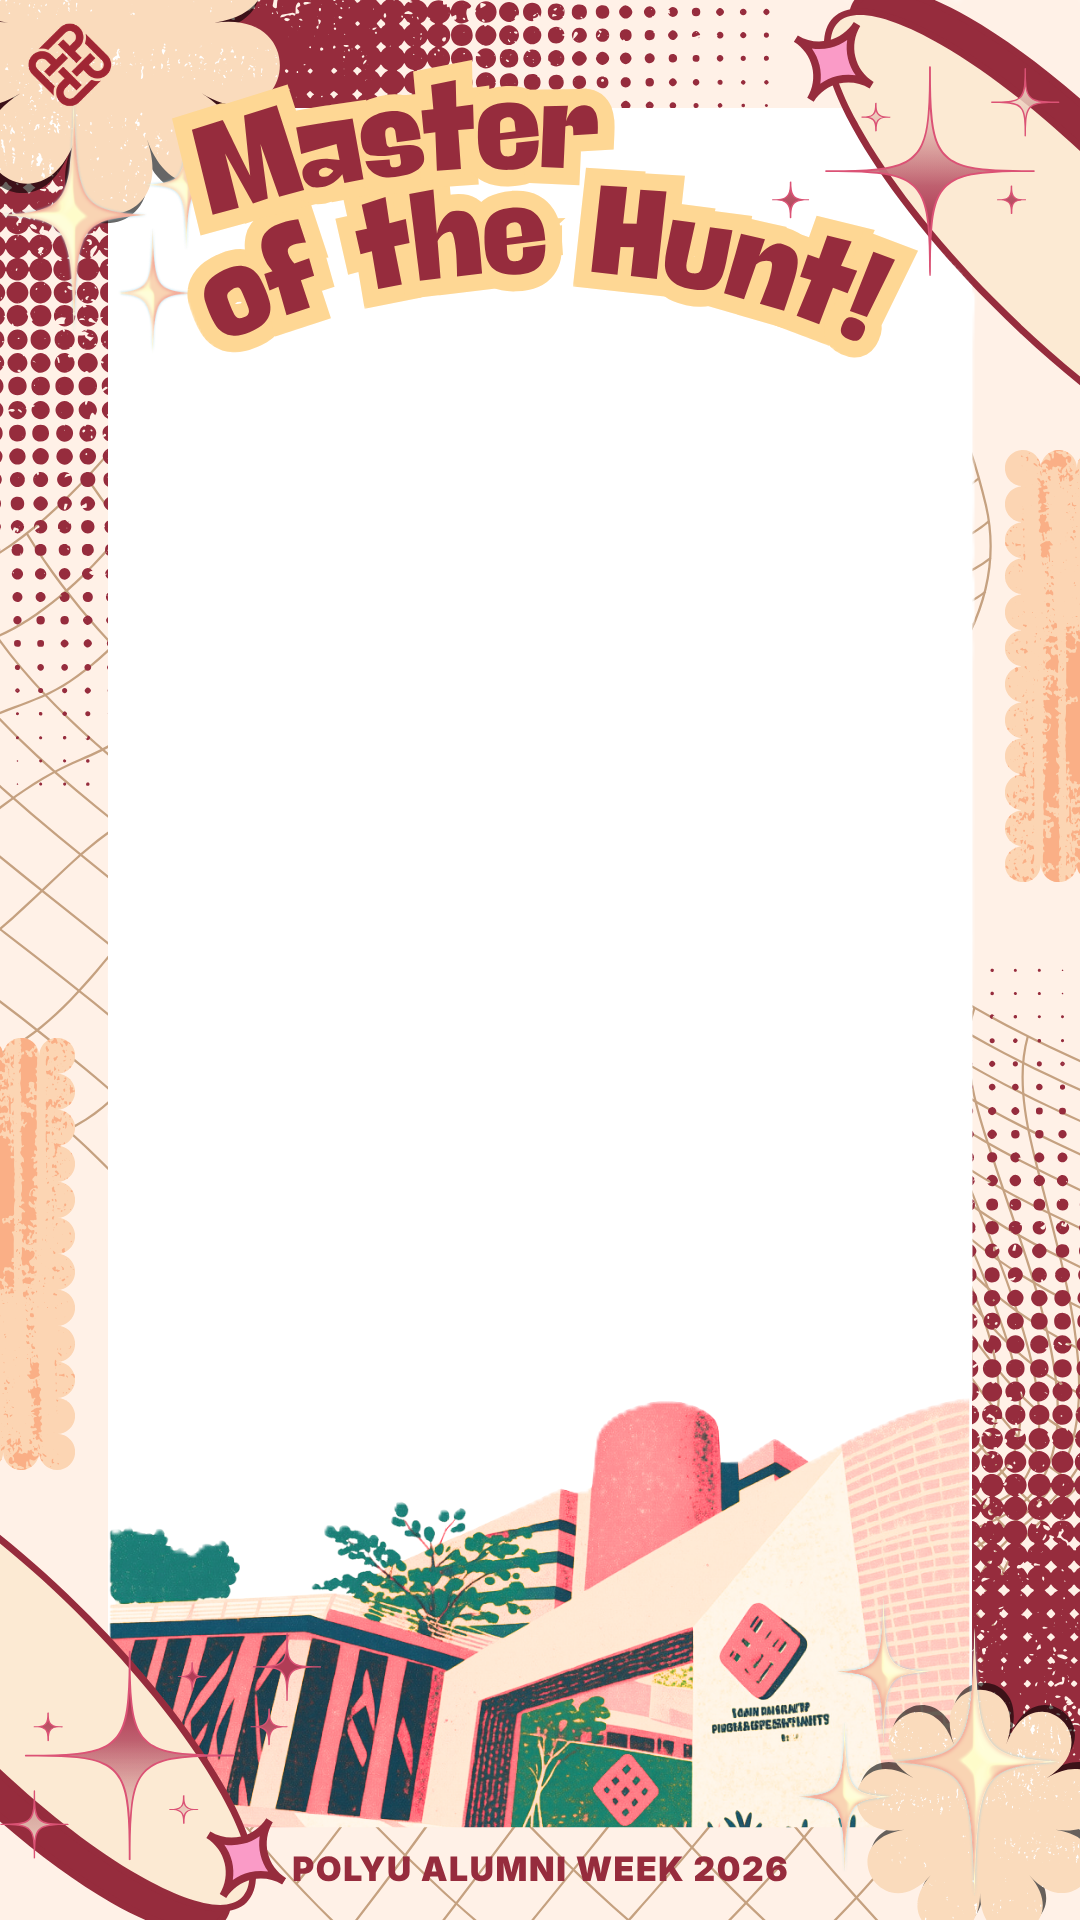
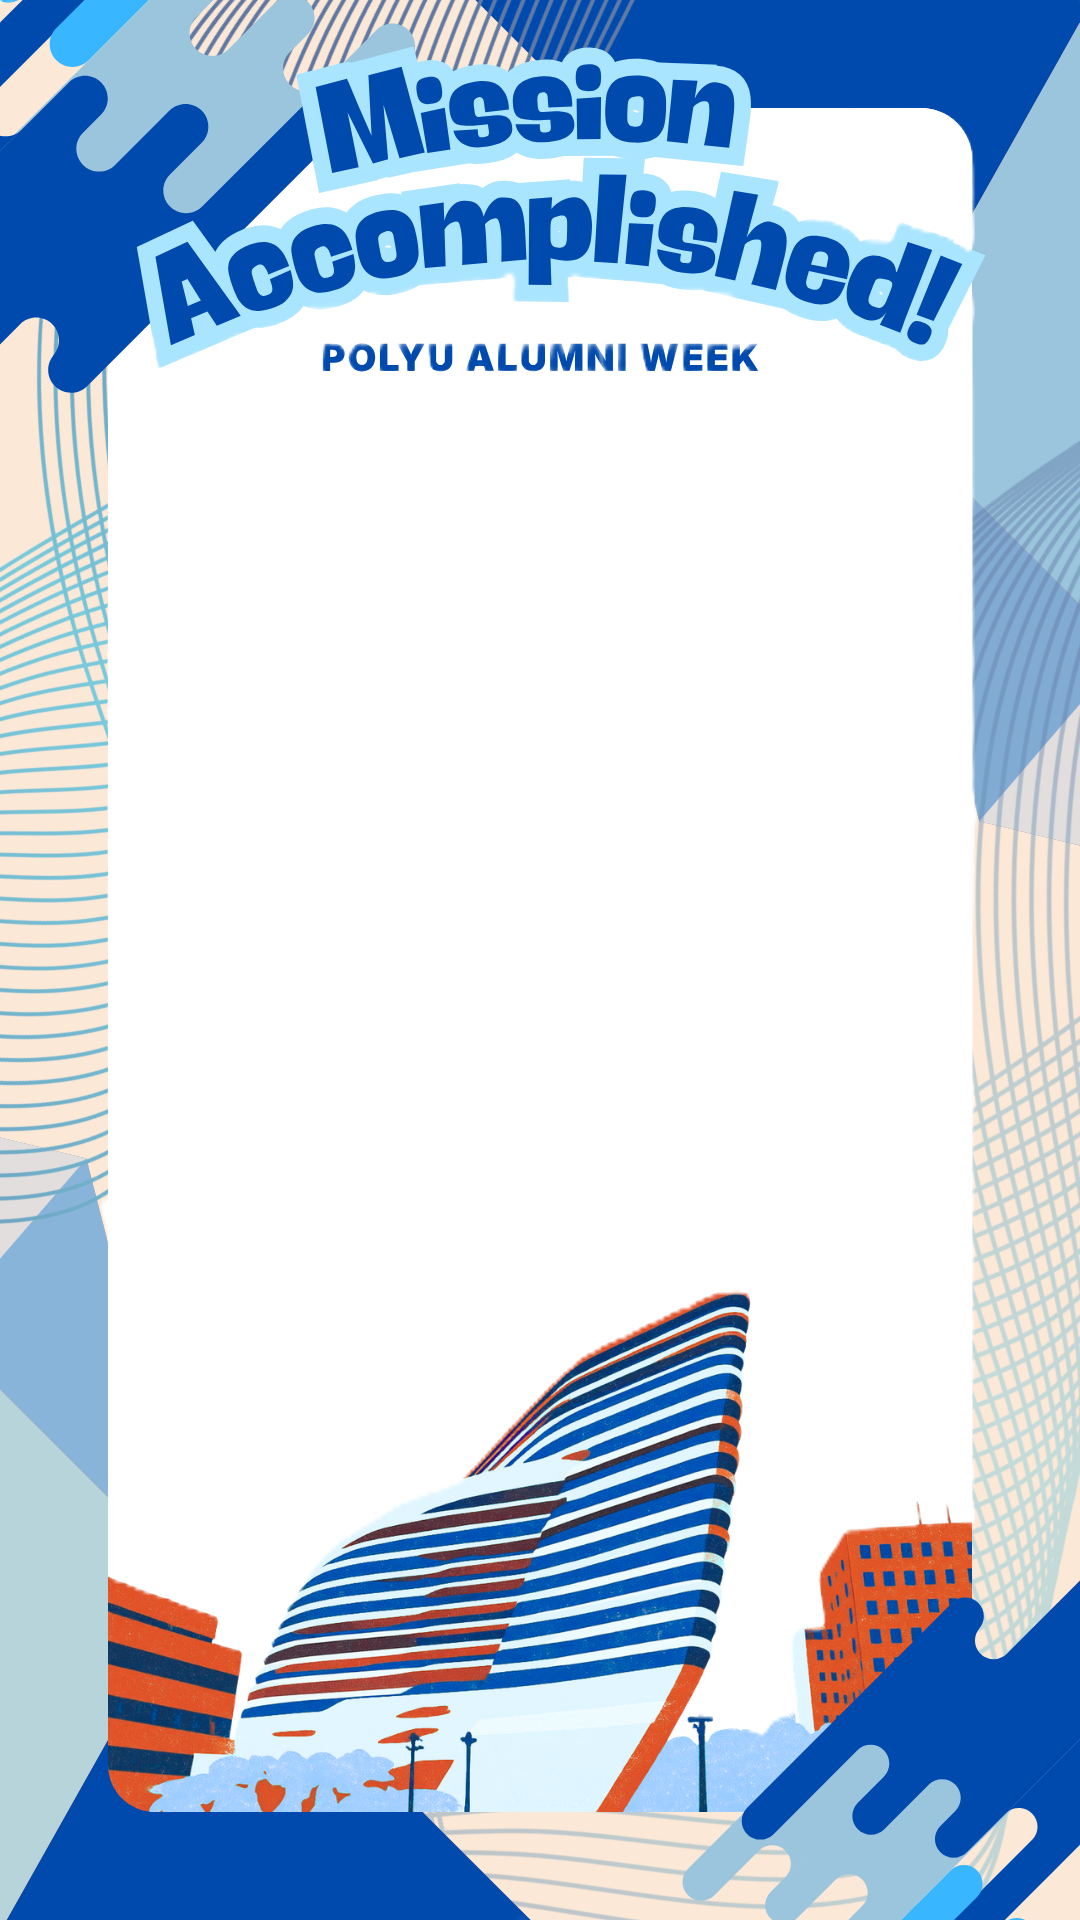
updated

diff --git a/public/index.html b/public/index.html
@@ -962,10 +962,10 @@
                                             {user.version === 'overseas' ? t.overseasOnly : t.localOnly}
                                         </div>
                                         
-                                        <input name="recipient" type="text" className="w-full p-4 border-2 border-gray-200 rounded-xl bg-white focus:border-purple-500 outline-none transition" required placeholder={t.recipient} />
-                                        <textarea name="address" className="w-full p-4 border-2 border-gray-200 rounded-xl bg-white focus:border-purple-500 outline-none transition resize-none h-24" required placeholder={t.deliveryAddress}></textarea>
-                                        <input name="postalCode" type="text" className="w-full p-4 border-2 border-gray-200 rounded-xl bg-white focus:border-purple-500 outline-none transition" required placeholder={t.postalCode} />
-                                        <input name="mobile" type="tel" className="w-full p-4 border-2 border-gray-200 rounded-xl bg-white focus:border-purple-500 outline-none transition" required placeholder={t.mobile} />
+                                        <input name="recipient" type="text" className="w-full p-4 border-2 border-gray-200 rounded-xl bg-white focus:border-purple-500 outline-none transition" required placeholder={t.recipient} defaultValue={user.giftDetails?.recipient || ''} />
+                                        <textarea name="address" className="w-full p-4 border-2 border-gray-200 rounded-xl bg-white focus:border-purple-500 outline-none transition resize-none h-24" required placeholder={t.deliveryAddress} defaultValue={user.giftDetails?.address || user.address || ''}></textarea>
+                                        <input name="postalCode" type="text" className="w-full p-4 border-2 border-gray-200 rounded-xl bg-white focus:border-purple-500 outline-none transition" required placeholder={t.postalCode} defaultValue={user.giftDetails?.postalCode || ''} />
+                                        <input name="mobile" type="tel" className="w-full p-4 border-2 border-gray-200 rounded-xl bg-white focus:border-purple-500 outline-none transition" required placeholder={t.mobile} defaultValue={user.giftDetails?.mobile || ''} />
                                         
                                         <button type="submit" className="w-full bg-purple-600 text-white py-4 rounded-xl font-bold shadow-lg mt-2">{t.submitBtn}</button>
                                     </form>
